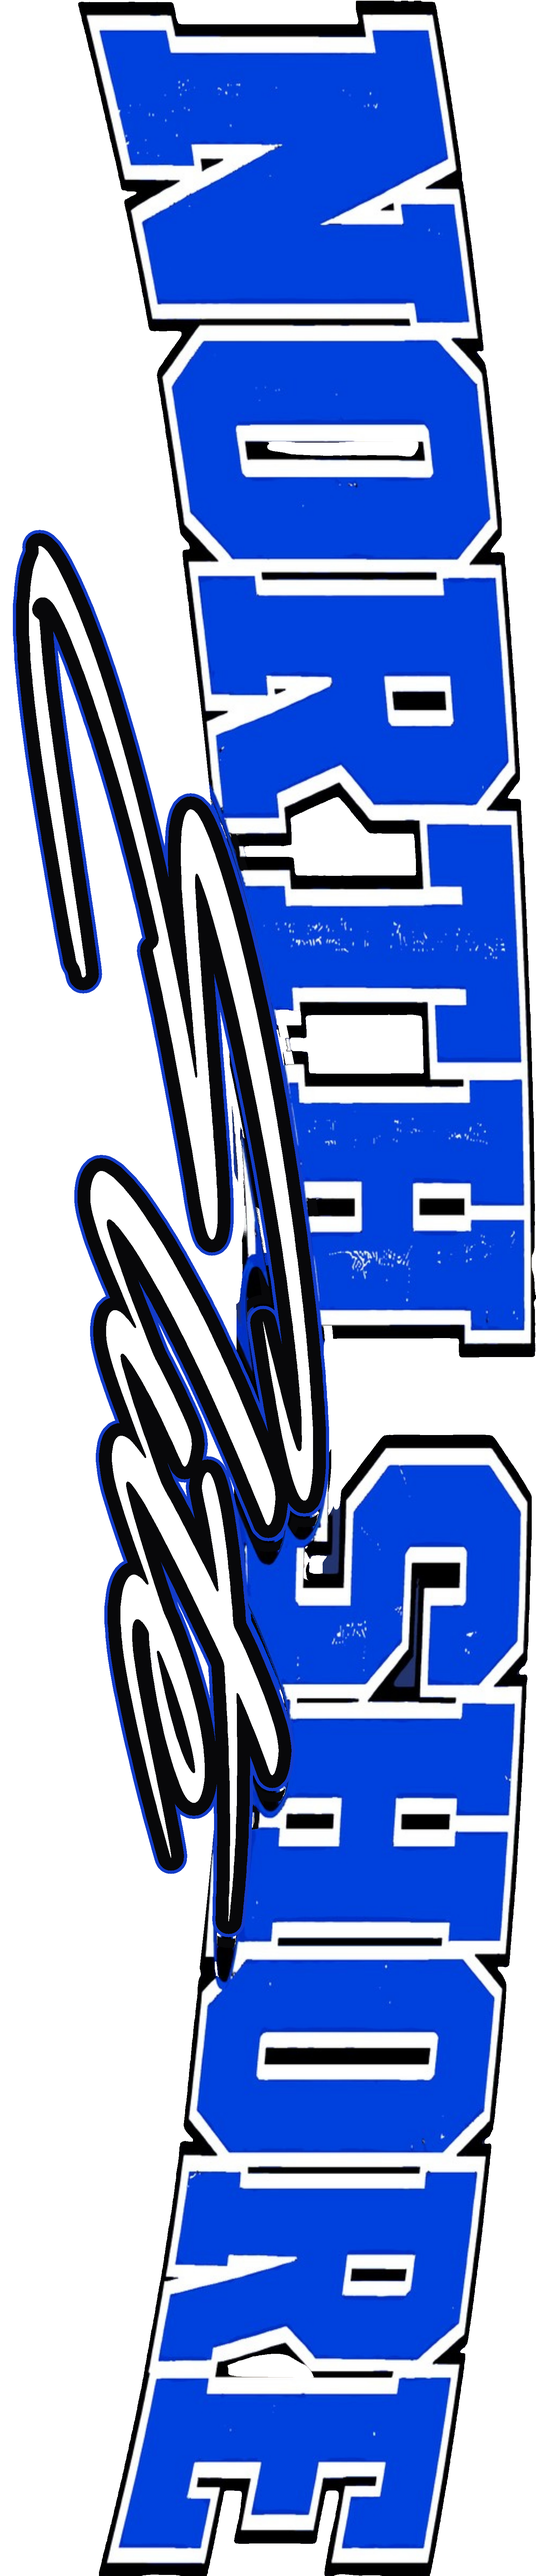
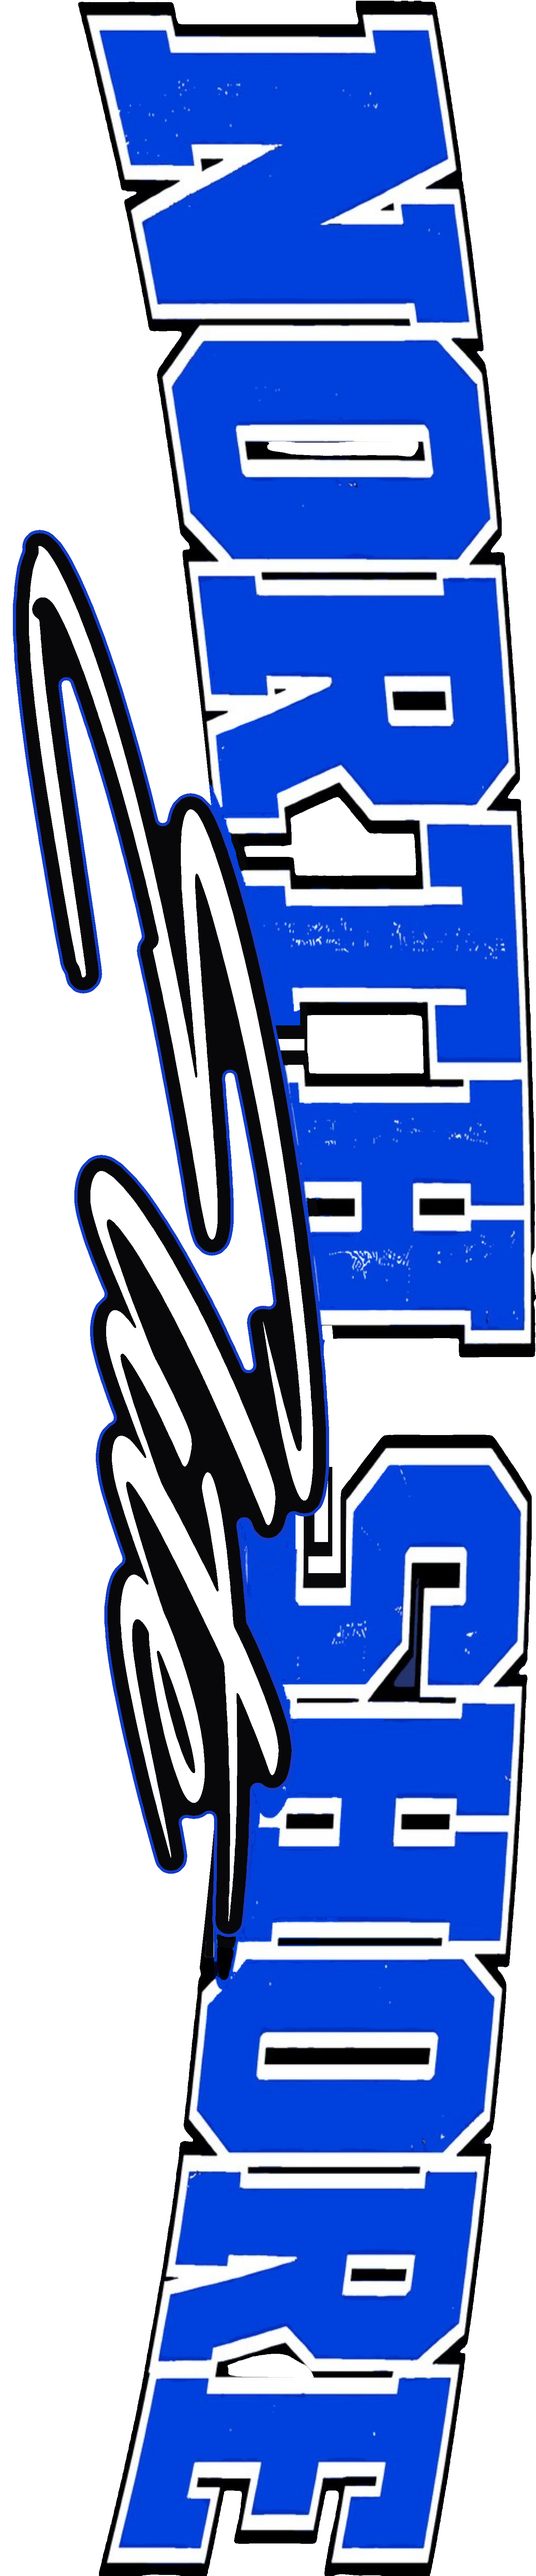
NSE vertical: second cleanup pass around the E of Elite (single outline, debris removed, S terminal + H drip tidied)
Claude-Session: https://claude.ai/code/session_012MPjDPrvxbCcTiNPpVskZs

diff --git a/north_shore_elite/print/vertical_5x24_blue/tools/clean_e2.py b/north_shore_elite/print/vertical_5x24_blue/tools/clean_e2.py
@@ -1,0 +1,96 @@
+"""Pass 2 around Elite: one clean outline (black envelope that fills narrow gaps between strokes + thin blue edge),
+then remove leftover old-Elite debris (blue/black/white fragments that live only next to Elite)."""
+import numpy as np, cv2, os
+from PIL import Image
+from scipy import ndimage as nd
+base = np.load("clean_land.npy"); H, W = base.shape[:2]
+a0 = np.array(Image.open("rot.png").convert("RGBA"))
+rgb = base[..., :3].astype(int); A = base[..., 3] >= 128
+Ew = (base[..., :3].min(2) == 255) & A
+# recover the smoothed Elite white: pure (255,255,255) pixels written by pass 1 that sit in the Elite region
+Ef = np.load("Ef.npy") if os.path.exists("Ef.npy") else None
+K1 = int(os.environ.get("K1", 36)); BL = int(os.environ.get("BL", 9)); CR = int(os.environ.get("CR", 28))
+R = int(os.environ.get("R", 95))
+dE = nd.distance_transform_edt(~Ef)
+env = dE <= K1
+# close narrow gaps between strokes (morphological closing via distance transforms)
+dil = nd.distance_transform_edt(~env) <= CR
+env = nd.distance_transform_edt(dil) > CR
+env |= dE <= K1
+# fill small enclosed holes in the envelope
+holes = nd.binary_fill_holes(env) & ~env
+lab, n = nd.label(holes); sz = np.bincount(lab.ravel()); sz[0] = 0
+env |= (sz[lab] > 0) & (sz[lab] < 40000)
+denv = nd.distance_transform_edt(~env)
+edge = (denv > 0) & (denv <= BL)
+outer = denv > BL
+out = base.copy()
+# classify outside pixels
+blue = A & (rgb[..., 2] - rgb[..., 0] > 40)
+dark = A & (rgb.max(2) < 75)
+white = A & (rgb.min(2) > 175)
+other = A & ~blue & ~dark & ~white
+resid = np.zeros((H, W), bool)
+zone = outer & (denv <= R)
+for M in (blue, dark, white, other):
+    m = M & outer
+    l, k = nd.label(m)
+    if k == 0: continue
+    mx = nd.maximum(denv, l, np.arange(1, k + 1))
+    bad = np.zeros(k + 1, bool); bad[1:] = mx <= R
+    resid |= bad[l]
+print("residue px", int(resid.sum()))
+# replace each residue component by the colour that surrounds it (flat letter blue / black / white / transparent)
+LB = np.median(base[blue & outer & (denv > 200)][:, :3], 0).astype(np.uint8)
+print("letter blue", LB)
+cls = np.zeros((H, W), np.int8)  # 0 transparent,1 blue,2 dark,3 white,4 other
+cls[blue] = 1; cls[dark] = 2; cls[white] = 3; cls[other] = 4
+pal = {0: (0, 0, 0, 0), 1: (*LB, 255), 2: (8, 8, 10, 255), 3: (255, 255, 255, 255), 4: (*LB, 255)}
+l, k = nd.label(resid)
+sl = nd.find_objects(l)
+for i, s_ in enumerate(sl, 1):
+    y0, y1 = max(s_[0].start - 8, 0), min(s_[0].stop + 8, H); x0, x1 = max(s_[1].start - 8, 0), min(s_[1].stop + 8, W)
+    comp = l[y0:y1, x0:x1] == i
+    ring = nd.binary_dilation(comp, iterations=6) & ~comp & outer[y0:y1, x0:x1] & ~resid[y0:y1, x0:x1]
+    if ring.sum() == 0: c = 0
+    else: c = int(np.bincount(cls[y0:y1, x0:x1][ring], minlength=5).argmax())
+    out[y0:y1, x0:x1][comp] = pal[c]
+# thin dark scratch lines left inside letter blue near Elite -> letter blue
+near = outer & (denv < 220)
+dk = (out[..., 3] == 255) & (out[..., :3].astype(int).max(2) < 90) & near
+thick = cv2.morphologyEx(dk.astype(np.uint8), cv2.MORPH_OPEN, np.ones((9, 9), np.uint8)).astype(bool)
+thin = dk & ~thick
+bl = (out[..., 3] == 255) & (out[..., 2].astype(int) - out[..., 0].astype(int) > 40)
+frac = cv2.blur(bl.astype(np.float32), (21, 21))
+fixl = thin & (frac > 0.45)
+out[fixl] = (*LB, 255); print("thin lines", int(fixl.sum()))
+# dark-navy smudges (old bleed) inside letters near Elite -> letter blue
+o = out[..., :3].astype(int)
+navy = (out[..., 3] == 255) & near & (o[..., 2] - o[..., 0] > 25) & (o[..., 2] < 170) & (o.max(2) >= 75)
+out[navy] = (*LB, 255); print("navy", int(navy.sum()))
+# small see-through holes enclosed by letter art near Elite -> surrounding colour
+tr = (out[..., 3] < 128) & outer
+l2, k2 = nd.label(tr); s2 = np.bincount(l2.ravel())
+for i, s_ in enumerate(nd.find_objects(l2), 1):
+    if s_ is None or s2[i] > 9000: continue
+    y0, y1 = max(s_[0].start - 8, 0), min(s_[0].stop + 8, H); x0, x1 = max(s_[1].start - 8, 0), min(s_[1].stop + 8, W)
+    comp = l2[y0:y1, x0:x1] == i
+    if denv[y0:y1, x0:x1][comp].min() > 200: continue
+    ring = nd.binary_dilation(comp, iterations=5) & ~comp
+    sub = out[y0:y1, x0:x1]; rc = sub[ring]
+    if (rc[:, 3] < 128).any(): continue          # touches open background -> real gap, keep
+    oc = rc[:, :3].astype(int)
+    votes = [((oc[:, 2] - oc[:, 0]) > 40).sum(), (oc.max(1) < 90).sum(), (oc.min(1) > 175).sum()]
+    c = [(*LB, 255), (8, 8, 10, 255), (255, 255, 255, 255)][int(np.argmax(votes))]
+    sub[comp] = c
+# wipe what was between old outline and new one
+out[edge] = (20, 60, 200, 255)
+out[env] = (8, 8, 10, 255)
+out[Ef] = (255, 255, 255, 255)
+# anti-alias the new outline edges at 4x? keep hard alpha for DTF; just smooth by supersampled masks
+al = out[..., 3] >= 128; out[..., 3] = np.where(al, 255, 0); out[~al, :3] = 0
+l, _ = nd.label(al); s = np.bincount(l.ravel()); sm = (s[l] < 150) & al; out[sm] = 0
+# tiny transparent pinholes inside art -> nearest colour
+tr = ~al; l, _ = nd.label(tr); s = np.bincount(l.ravel()); pin = tr & (s[l] < 60)
+_, (iy, ix) = nd.distance_transform_edt(pin, return_indices=True); out[pin] = out[iy[pin], ix[pin]]
+np.save("elite_layer.npy", env | edge); np.save("clean2.npy", out); Image.fromarray(out, "RGBA").save("clean2.png")

diff --git a/north_shore_elite/print/vertical_5x24_blue/tools/clean_bleed.py b/north_shore_elite/print/vertical_5x24_blue/tools/clean_bleed.py
@@ -1,0 +1,68 @@
+"""Keep Brian's NORTH SHORE exactly; only clean the blue bleeding around/through Elite.
+Elite: white fill traced + smoothed, clean black band + thin blue edge. Bleed below the letter band -> transparent."""
+import numpy as np, cv2
+from PIL import Image
+from scipy import ndimage as nd
+a = np.array(Image.open("rot.png").convert("RGBA")); H, W = a.shape[:2]
+rgb = a[..., :3].astype(int); A = a[..., 3]
+E = np.load("Ew.npy").astype(np.uint8)
+# smooth Elite white fill
+kc, kh = cv2.findContours(E, cv2.RETR_CCOMP, cv2.CHAIN_APPROX_NONE)
+SS = 4; m = np.zeros((H * SS, W * SS), np.uint8)
+for i, c in enumerate(kc):
+    if len(c) < 30 or abs(cv2.contourArea(c)) < 400: continue
+    p = c[:, 0, :].astype(np.float64)
+    p = np.stack([nd.gaussian_filter1d(p[:, 0], 5, mode="wrap"), nd.gaussian_filter1d(p[:, 1], 5, mode="wrap")], 1)
+    cv2.fillPoly(m, [np.round((p + 0.5) * SS * 16).astype(np.int32)], 0 if kh[0][i][3] >= 0 else 255, cv2.LINE_AA, shift=4)
+Ef = cv2.resize(m, (W, H), interpolation=cv2.INTER_AREA) >= 128
+dE = nd.distance_transform_edt(~Ef)
+K1, K2 = 36, 45                                   # black band, blue edge (px)
+# letter band bottom (blue fill bottom curve + letter trim)
+pb = np.array([3.25772772e-05, -2.42580710e-01, 1.23945472e+03])
+xx = np.arange(W); yb = np.polyval(pb, xx) + 50
+yy = np.arange(H)[:, None]
+below = yy > yb[None, :]
+Z = dE <= 160                                     # Elite neighbourhood
+out = a.copy()
+clear = (dE > K2) & below
+out[clear] = 0
+# inside the letter band: remove blue/black smear that sits right outside the new Elite edge
+band_smear = Z & (dE > K2) & (dE <= 75) & ~below
+blueish = (rgb[..., 2] - rgb[..., 0] > 40)
+darkish = rgb.max(2) < 70
+# keep letter pixels: letter blue that continues away from Elite (connected to blue farther than 75 px)
+lblue = blueish & (A >= 128)
+lab, _ = nd.label(lblue); far = np.unique(lab[lblue & (dE > 90)]); far = far[far > 0]
+legit = np.isin(lab, far)
+smear = band_smear & (A > 0) & ~legit & (blueish | (darkish & (dE > K2 + 6)))
+out[smear] = 0
+# doubled old Elite outline (black + blue line) just outside the new edge, inside the letter band:
+# replace with the letter pixels next to it (nearest original pixel farther from Elite)
+oldline = ~below & (dE > K2) & (dE <= 85) & (out[..., 3] >= 128) & ((rgb.max(2) < 70) | (blueish & ~legit))
+src_ok = ~below & (dE > 85) & (a[..., 3] >= 128)
+lab3, _ = nd.label(oldline)
+_, (iy, ix) = nd.distance_transform_edt(~src_ok, return_indices=True)
+dsrc = nd.distance_transform_edt(~src_ok)
+rep = oldline & (dsrc < 60)
+out[rep] = a[iy[rep], ix[rep]]
+print("oldline replaced", int(rep.sum()))
+# small transparent gaps left between Elite and the letters -> Elite black outline
+tr = (out[..., 3] < 128) & ~below
+lab2, _ = nd.label(tr); sz2 = np.bincount(lab2.ravel()); sz2[0] = 0
+gap = tr & (sz2[lab2] < 8000) & (dE <= 90)
+gapc = np.unique(lab2[gap]); gapc = gapc[gapc > 0]
+# only components that lie wholly near Elite
+okc = [c for c in gapc if dE[lab2 == c].max() <= 110]
+fillg = np.isin(lab2, okc)
+out[fillg] = (8, 8, 10, 255)
+print("gap fill", int(fillg.sum()))
+# new Elite on top
+out[(dE <= K2)] = (20, 60, 200, 255)
+out[(dE <= K1)] = (8, 8, 10, 255)
+out[Ef] = (255, 255, 255, 255)
+# hard alpha + specks
+al = out[..., 3] >= 128; out[..., 3] = np.where(al, 255, 0); out[~al, :3] = 0
+lab, _ = nd.label(al); sz = np.bincount(lab.ravel()); small = (sz[lab] < 150) & al; out[small] = 0
+np.save("clean_land.npy", out)
+Image.fromarray(out, "RGBA").save("clean_land.png")
+print("cleared", int(clear.sum()), "smear", int(smear.sum()))

diff --git a/north_shore_elite/print/vertical_5x24_blue/tools/fix_h_counter.py b/north_shore_elite/print/vertical_5x24_blue/tools/fix_h_counter.py
@@ -1,0 +1,23 @@
+"""H (NORTH) counter bottom beside Elite: keep Brian's narrow drip (like the T gap) as one clean straight slit
+between solid black edges down to the Elite outline; remove the ragged notches/flecks."""
+import numpy as np
+from PIL import Image
+out = np.load("clean4.npy"); el = np.load("elite_layer.npy")
+H, W = el.shape; yy, xx = np.mgrid[0:H, 0:W]
+o = out[..., :3].astype(int)
+white = (o.min(2) > 175) & (out[..., 3] == 255)
+blue = (o[..., 2] - o[..., 0] > 40) & (o.min(2) <= 175) & (out[..., 3] == 255)
+box = (xx >= 2806) & (xx < 2990) & (yy >= 640) & (yy < 770) & ~el
+m = box & ~white & ~blue
+out[m] = (8, 8, 10, 255)
+# stray grey/white flecks inside that black
+fl = box & white & (xx > 2850) & (xx < 2975) & (yy < 700)
+out[fl] = (8, 8, 10, 255)
+# left of the drip: letter base blue (as under the T), straight black stub edges
+lb = (xx >= 2806) & (xx < 2866) & (yy >= 660) & (yy < 800) & ~el & ~white
+out[lb] = (0, 65, 221, 255)
+stub = (xx >= 2866) & (xx < 2976) & (yy >= 648) & (yy < 800) & ~el
+out[stub] = (8, 8, 10, 255)
+slit = (xx >= 2904) & (xx < 2936) & (yy >= 648) & (yy < 800) & ~el
+out[slit] = 0
+np.save("clean5.npy", out); Image.fromarray(out, "RGBA").save("clean5.png")

diff --git a/north_shore_elite/print/vertical_5x24_blue/tools/fix_s_terminal.py b/north_shore_elite/print/vertical_5x24_blue/tools/fix_s_terminal.py
@@ -1,0 +1,18 @@
+"""S (SHORE) bottom terminal beside Elite: redraw Brian's trim geometry (black inside white bracket,
+transparent channel, inner white bar) where the old blue bleed had smeared it. Elite outline stays on top."""
+import numpy as np
+from PIL import Image
+out = np.load("clean2.npy"); el = np.load("elite_layer.npy")
+H, W = el.shape; yy, xx = np.mgrid[0:H, 0:W]
+was_tr = np.load("clean2.npy")[..., 3] < 128
+reg = (xx >= 4100) & (xx < 4437) & (yy >= 532) & (yy < 650) & ~el
+reg &= ~(was_tr & (yy < 547))            # leave the open background left of the S diagonal
+out[reg] = (8, 8, 10, 255)
+ch = ((xx < 4397) & (yy >= 547) & (yy < 570)) | ((xx >= 4350) & (xx < 4397) & (yy >= 570) & (yy < 637))
+out[reg & ch] = 0
+bar = (xx >= 4100) & (xx < 4310) & (yy >= 582) & (yy < 620)
+out[reg & bar] = (255, 255, 255, 255)
+# continue the bracket's bottom white trim left until it meets the Elite outline
+bot = (xx >= 4150) & (xx < 4330) & (yy >= 650) & (yy < 673) & ~el
+out[bot] = (255, 255, 255, 255)
+np.save("clean3.npy", out); Image.fromarray(out, "RGBA").save("clean3.png")

diff --git a/north_shore_elite/print/vertical_5x24_blue/tools/final_touch.py b/north_shore_elite/print/vertical_5x24_blue/tools/final_touch.py
@@ -1,0 +1,15 @@
+import numpy as np, cv2
+from PIL import Image
+from scipy import ndimage as nd
+out = np.load("clean3.npy"); el = np.load("elite_layer.npy")
+denv = nd.distance_transform_edt(~el)
+near = (denv > 0) & (denv < 260) & ~el
+o = out[..., :3].astype(int); op = out[..., 3] == 255
+LB = np.array([0, 65, 221])
+# faint dark scratch lines inside letter blue
+blu = op & (o[..., 2] - o[..., 0] > 40)
+frac = cv2.blur(blu.astype(np.float32), (25, 25))
+line = op & near & (frac > 0.6) & ~((o.min(2) > 175)) & ((o[..., 2] < 200) | (o.max(2) < 90)) & (o[..., 2] - o[..., 0] > 15)
+out[line] = (*LB, 255); print("lines", int(line.sum()))
+al = out[..., 3] >= 128; out[..., 3] = np.where(al, 255, 0); out[~al, :3] = 0
+np.save("clean4.npy", out); Image.fromarray(out, "RGBA").save("clean4.png")
